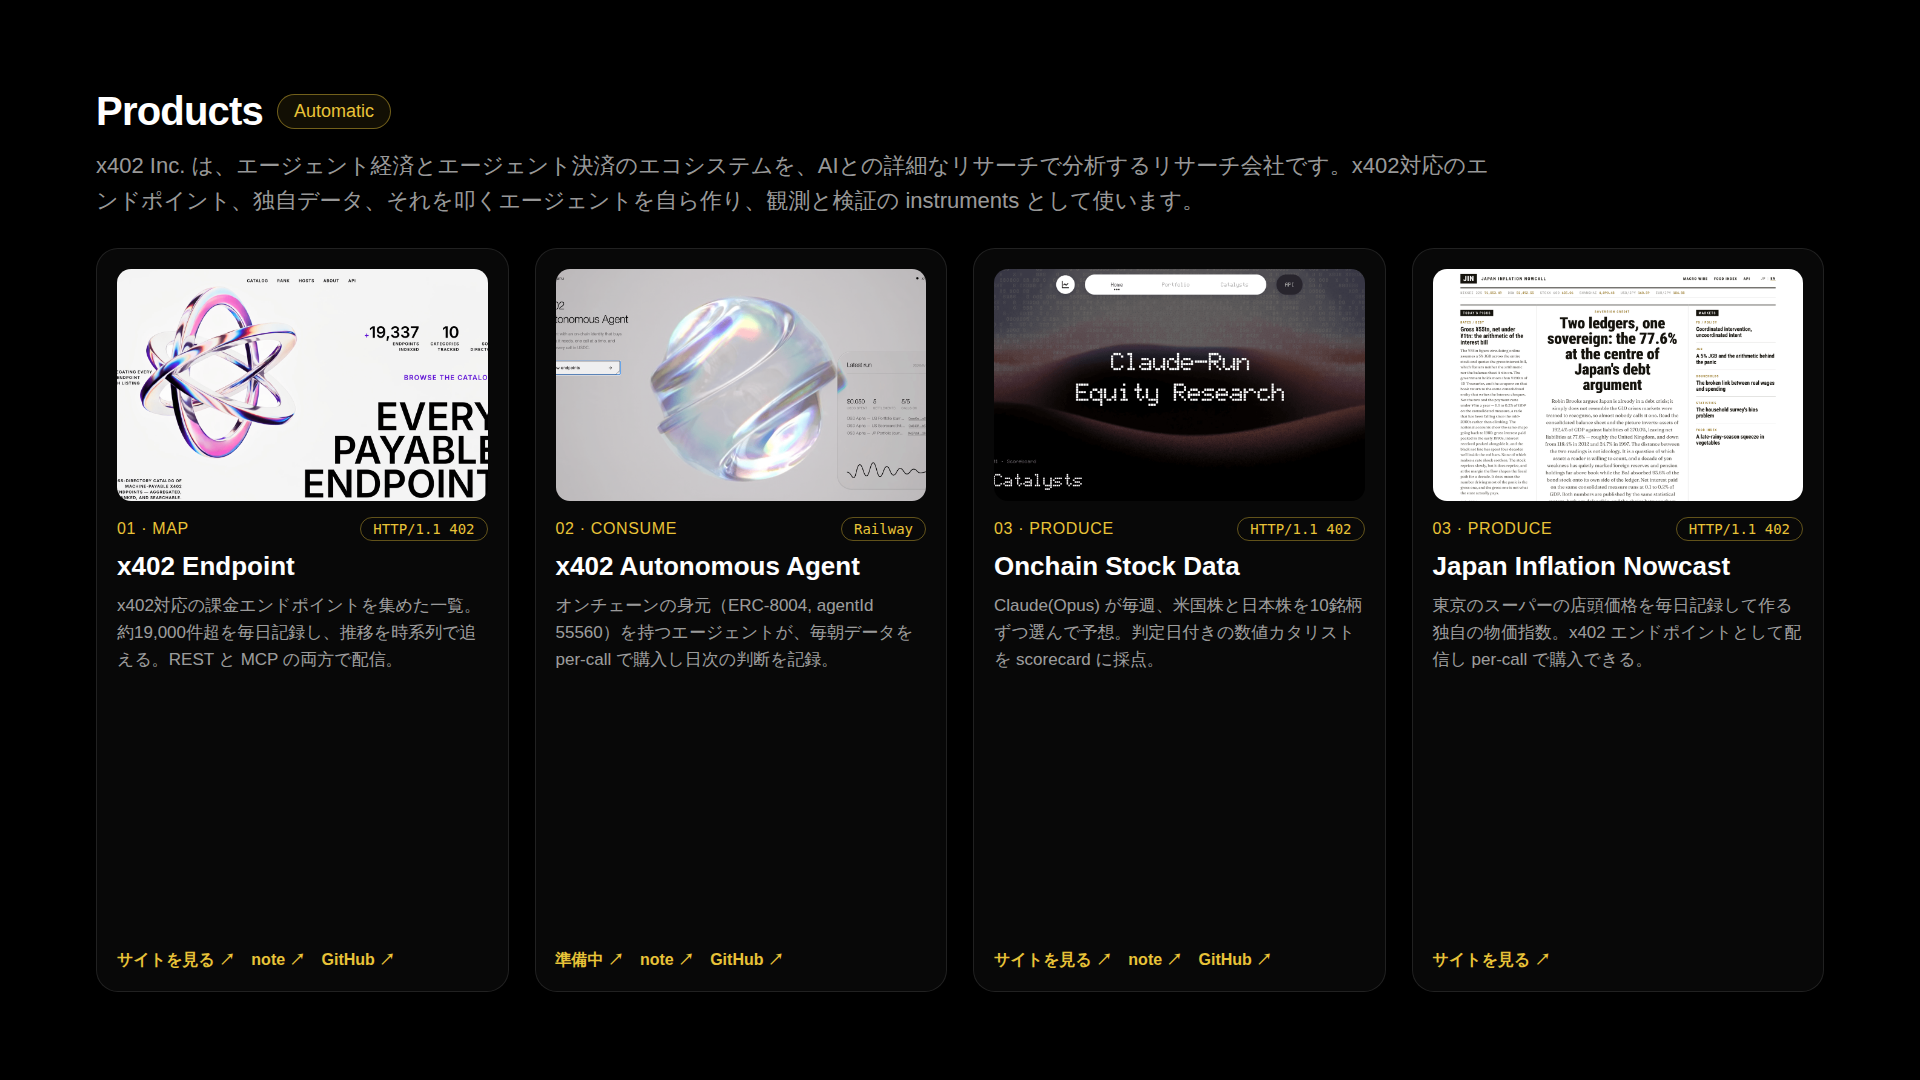
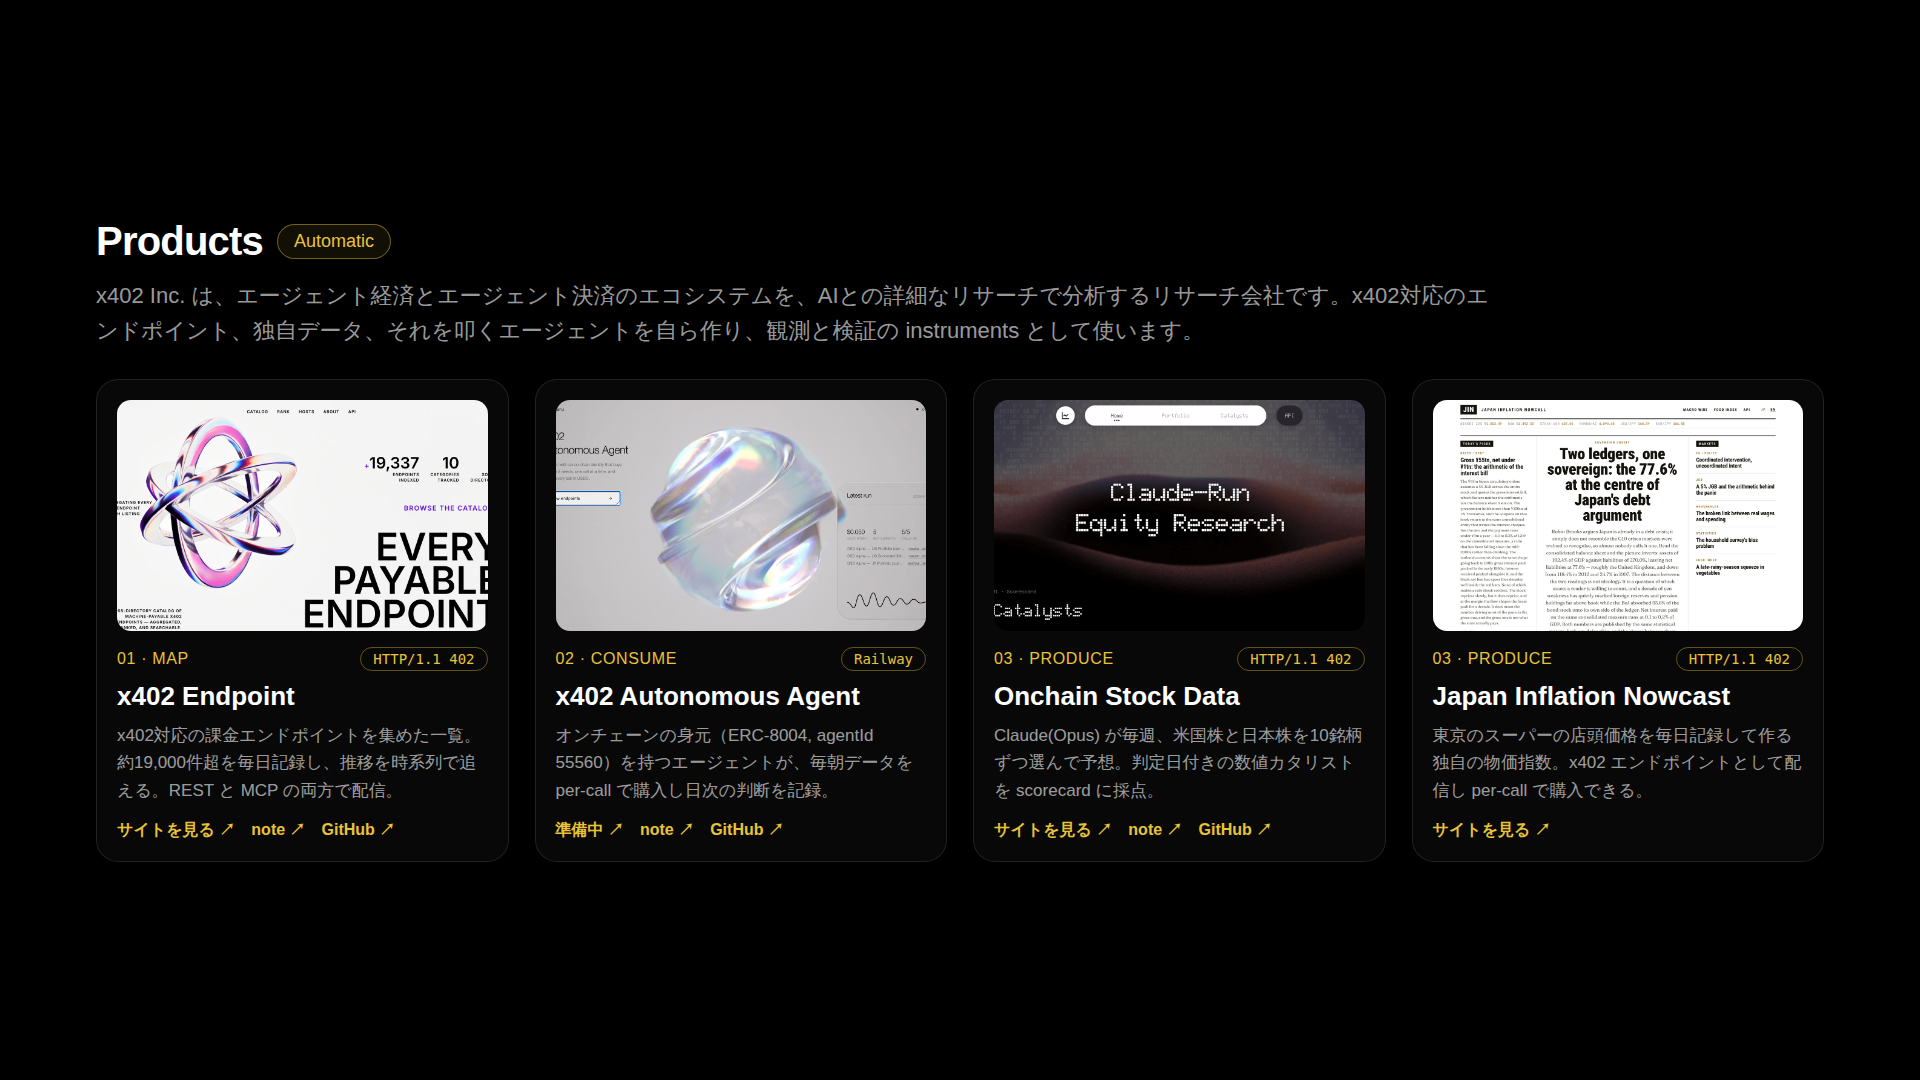
Tighten board whitespace (content-height cards, vertical centering)
Remove flex-stretch so product/endpoint cards size to their content, and
vertically center each board's content group to reduce empty space.

Claude-Session: https://claude.ai/code/session_01SymSoxkPF2yy7NT8CwFozF

diff --git a/exports/boards.html b/exports/boards.html
@@ -5,7 +5,7 @@
   :root{--gold:#E8C338;--fg:#ffffff;--muted:rgba(255,255,255,.62);--faint:rgba(255,255,255,.4);--line:rgba(255,255,255,.1);--card:rgba(255,255,255,.03)}
   *{margin:0;padding:0;box-sizing:border-box}
   body{background:#000;color:var(--fg);font-family:'Outfit',-apple-system,'Segoe UI',sans-serif;-webkit-font-smoothing:antialiased}
-  .board{width:1920px;height:1080px;background:#000;padding:88px 96px;position:relative;overflow:hidden;display:flex;flex-direction:column}
+  .board{width:1920px;height:1080px;background:#000;padding:72px 96px;position:relative;overflow:hidden;display:flex;flex-direction:column;justify-content:center}
   .board + .board{border-top:1px solid #111}
   .eyebrow{display:flex;align-items:center;gap:14px;margin-bottom:14px}
   .eyebrow h2{font-size:40px;font-weight:700;letter-spacing:-.02em}
@@ -22,14 +22,14 @@
   .hero .strip{margin-top:56px;display:flex;gap:16px}
   .hero .strip .chip{font-size:20px;padding:10px 22px;color:#fff;border-color:rgba(232,195,56,.35)}
   /* PRODUCTS */
-  .prow4{display:grid;grid-template-columns:repeat(4,1fr);gap:26px;flex:1}
+  .prow4{display:grid;grid-template-columns:repeat(4,1fr);gap:26px}
   .pcard{background:var(--card);border:1px solid var(--line);border-radius:22px;padding:20px;display:flex;flex-direction:column}
   .pimg{border-radius:14px;overflow:hidden;aspect-ratio:16/10;background:#111;margin-bottom:16px}
   .pimg img{width:100%;height:100%;object-fit:cover;display:block}
   .prow{display:flex;justify-content:space-between;align-items:center;margin-bottom:10px}
   .ptag{color:var(--gold);font-size:16px;letter-spacing:.04em}
   .pcard h3{font-size:26px;font-weight:700;margin-bottom:10px}
-  .pdesc{color:var(--muted);font-size:17px;line-height:1.6;flex:1}
+  .pdesc{color:var(--muted);font-size:17px;line-height:1.6}
   .plinks{margin-top:16px;display:flex;gap:16px;color:var(--gold);font-size:16px;font-weight:600}
   /* ECOSYSTEM */
   .eco4{display:grid;grid-template-columns:repeat(4,1fr);gap:22px}
@@ -45,7 +45,7 @@
   .compcard{background:var(--card);border:1px solid var(--line);border-radius:18px;padding:18px 20px}
   .comp-h{color:var(--gold);font-size:15px;letter-spacing:.14em;text-transform:uppercase;margin:26px 0 4px}
   /* ENDPOINTS */
-  .ebody{display:grid;grid-template-columns:1.1fr 2.4fr;gap:34px;flex:1}
+  .ebody{display:grid;grid-template-columns:1.1fr 2.4fr;gap:34px}
   .pay{background:var(--card);border:1px solid var(--line);border-radius:20px;padding:26px}
   .pay h3{font-size:26px;margin-bottom:14px}
   .curl{background:rgba(255,255,255,.04);border:1px solid var(--line);border-radius:12px;padding:14px;font-family:monospace;font-size:16px;color:#ddd;margin-bottom:18px}
